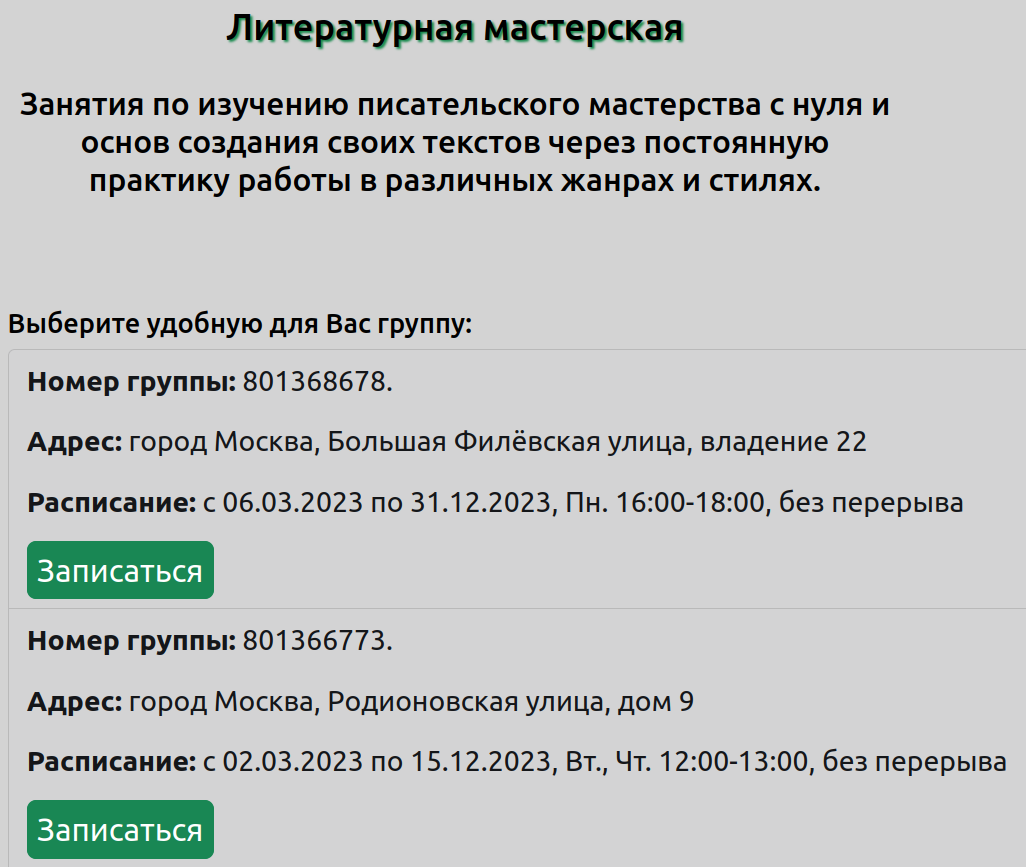
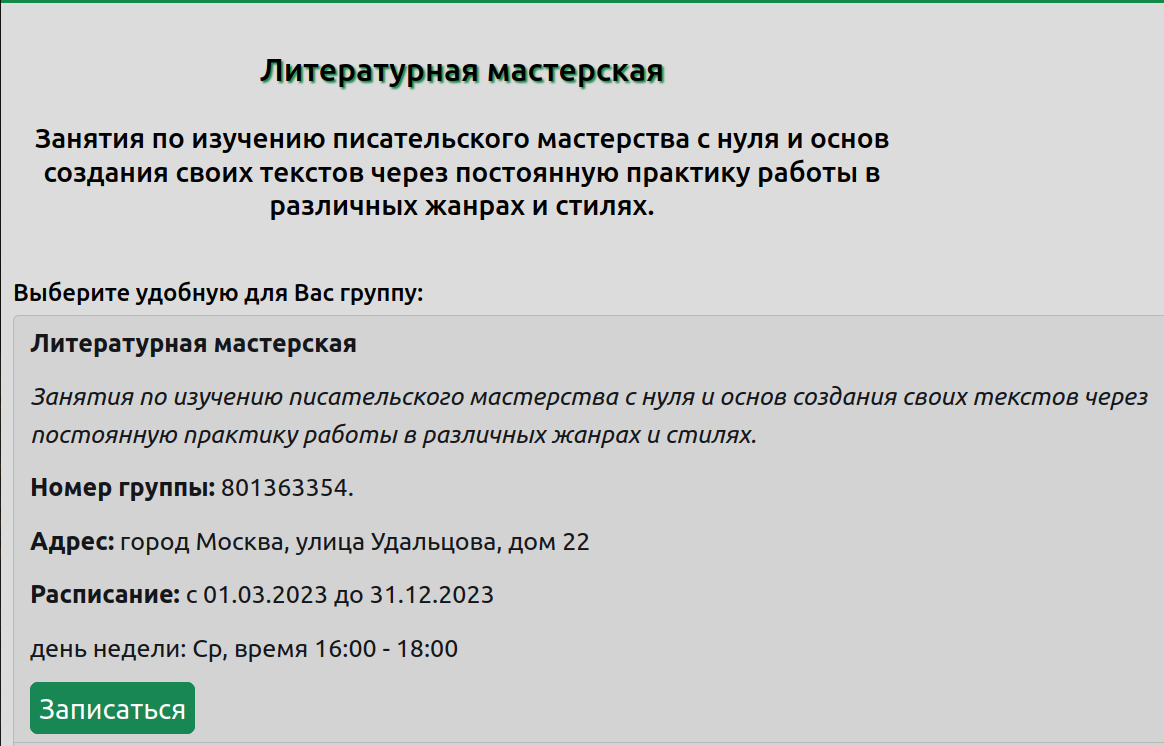
add new filters

Changed region(s): [[0.0, 0.3391, 0.9981, 0.8324], [0.0, 0.0, 1.0, 0.3083], [0.0, 0.8633, 0.9981, 1.0]]

diff --git a/recommendations/catalog/templates/catalog/groups.html b/recommendations/catalog/templates/catalog/groups.html
@@ -9,21 +9,19 @@
             <br/>
             <h3>{{level3.descript_level}}</h3>
         </div>
-        <div class="col-md-2">
-        </div>
-            {% if not 'ОНЛАЙН' in level3.level %}
-            {% include 'filter_with_onoff.html' %}
-            {% endif %}
     </div>
     <div class="row my-3">
         <h4>{{message}}:</h4>
         {% include 'groups_list.html' %}
+        {% if not 'ОНЛАЙН' in level3.level %}
+        {% include 'filter_with_onoff.html' %}
+        {% endif %}
+        {% else %}
     </div>
-    {% else %}
     <div class="col-md-12">
         {% include 'ups.html' %}
     </div>
-    {% endif %}
 </div>
+{% endif %}
 {% include 'pagination.html' %}
 {% endblock %}

diff --git a/recommendations/templates/ups.html b/recommendations/templates/ups.html
@@ -3,5 +3,5 @@
 
 <div class="col-md-12">
     <img src=" {% static 'images/ups.png' %}" class="mx-auto d-block" width="400px">
-    <h3>Мы ничего не нашли по вашему запросу.<br/>Попробуйте еще. </h3>
+    <h1>Мы ничего не нашли по вашему запросу.<br/>Попробуйте еще. </h1>
 </div>

diff --git a/recommendations/catalog/filters.py b/recommendations/catalog/filters.py
@@ -1,33 +1,46 @@
 import django_filters
 from django_filters import CharFilter, filters, ChoiceFilter
 from address_book.models import AdministrativeDistrict
-from services.weekdays_dict import WEEK_CHOICE
-
-ON_OFF = (('Онлайн', 'Все группы'), ('Оффлайн', 'Только оффлайн'))
+from services.dictionaries import WEEK_CHOICE, ON_OFF, TIME_CHOICE
 
 
-class GroupsFilterSearch(django_filters.FilterSet):
+class GroupsFilter(django_filters.FilterSet):
+    districts = filters.ModelChoiceFilter(
+        queryset=AdministrativeDistrict.objects.all(),
+        label='Район',
+        method='filter_district'
+    )
+    address = CharFilter(
+        label='Название улицы',
+        lookup_expr='icontains')
+    weekday = ChoiceFilter(
+        choices=WEEK_CHOICE,
+        label='День недели',
+        method='filter_weekday'
+    )
+    start_time = ChoiceFilter(
+        choices=TIME_CHOICE,
+        label='Время начала',
+        method='filter_time'
+    )
+
+    def filter_weekday(self, queryset, name, value):
+        return queryset.filter(weekday=value)
+
+    def filter_time(self, queryset, name, value):
+        return queryset.filter(start_time__icontains=value)
+
+
+class GroupsFilterSearch(GroupsFilter):
     offline = ChoiceFilter(
         choices=ON_OFF,
         label='Онлайн/Оффлайн',
         method='filter_offline'
     )
 
-    districts = filters.ModelChoiceFilter(
-        queryset=AdministrativeDistrict.objects.all(),
-        label='Район',
-        method='filter_offline_district'
-    )
     address = CharFilter(
-        field_name='address',
         label='Название улицы',
         method='filter_offline_address')
-
-    weekday = ChoiceFilter(
-        choices=WEEK_CHOICE,
-        label='День недели',
-        method='filter_weekday'
-    )
 
     def filter_offline_address(self, queryset, name, value):
         # только группы оффлайн.
@@ -43,29 +56,8 @@ class GroupsFilterSearch(django_filters.FilterSet):
         else:
             return queryset
 
-    def filter_weekday(self, queryset, name, value):
-        return queryset.filter(weekday=value)
 
-
-class GroupsFilterCatalog(django_filters.FilterSet):
-    districts = filters.ModelChoiceFilter(
-        queryset=AdministrativeDistrict.objects.all(),
-        label='Район',
-        method='filter_district'
-    )
-    address = CharFilter(
-        field_name='address',
-        label='Название улицы',
-        lookup_expr='icontains')
-
-    weekday = ChoiceFilter(
-        choices=WEEK_CHOICE,
-        label='День недели',
-        method='filter_weekday'
-    )
+class GroupsFilterCatalog(GroupsFilter):
 
     def filter_district(self, queryset, name, value):
         return queryset.filter(admin_district=value)
-
-    def filter_weekday(self, queryset, name, value):
-        return queryset.filter(weekday=value)

diff --git a/recommendations/catalog/views.py b/recommendations/catalog/views.py
@@ -1,7 +1,7 @@
 from django.contrib.auth.mixins import LoginRequiredMixin
 from django.db.models import Q
 from django.shortcuts import get_object_or_404, redirect
-from django.urls import reverse_lazy, reverse
+from django.urls import reverse_lazy
 from django.views.generic import ListView, DetailView, FormView
 from django_filters.views import FilterView
 
@@ -13,7 +13,10 @@ from catalog.models import ActivityTypes, ActivityLevel1, ActivityLevel2, Activi
 
 class IndexView(FormView):
     template_name = 'catalog/catalog.html'
-    extra_context = {'message': 'Каталог занятий', 'searcher': 'Введите слово для поиска по каталогу'}
+    extra_context = {
+        'message': 'Каталог занятий',
+        'searcher': 'Введите слово для поиска по каталогу'
+    }
     form_class = SearchForm
     context_object_name = 'activity_types'
 

diff --git a/recommendations/services/dictionaries.py b/recommendations/services/dictionaries.py
@@ -1,0 +1,10 @@
+WEEKDAYS_DICT = {'Пн': '0', 'Вт': '1', 'Ср': '2', 'Чт': '3', 'Пт': '4', 'Сб': '5', 'Вс': '6'}
+WEEK_CHOICE = (('Пн', 'понедельник'), ('Вт', 'вторник'), ('Ср', 'среда'),
+               ('Чт', 'четверг'), ('Пт', 'пятница'), ('Сб', 'суббота'),
+               ('Вс', 'воскресенье'))
+ON_OFF = (('Онлайн', 'Все группы'), ('Оффлайн', 'Только оффлайн'))
+TIME_CHOICE = (('06', '06:00'), ('07', '07:00'), ('08', '08:00'), ('09', '09:00'),
+               ('10', '10:00'), ('11', '11:00'), ('12', '12:00'), ('13', '13:00'),
+               ('14', '14:00'), ('15', '15:00'), ('16', '16:00'), ('17', '17:00'),
+               ('18', '18:00'), ('19', '19:00'), ('20', '20:00'), ('21', '21:00'),
+               ('22', '22:00'), ('23', '23:00'))

diff --git a/recommendations/catalog/forms.py b/recommendations/catalog/forms.py
@@ -3,7 +3,7 @@ from bootstrap_datepicker_plus.widgets import DatePickerInput
 import datetime as dt
 
 from catalog.models import Attends, Groups, GroupsCorrect
-from services.weekdays_dict import WEEKDAYS_DICT
+from services.dictionaries import WEEKDAYS_DICT
 from users.models import Profile
 
 
